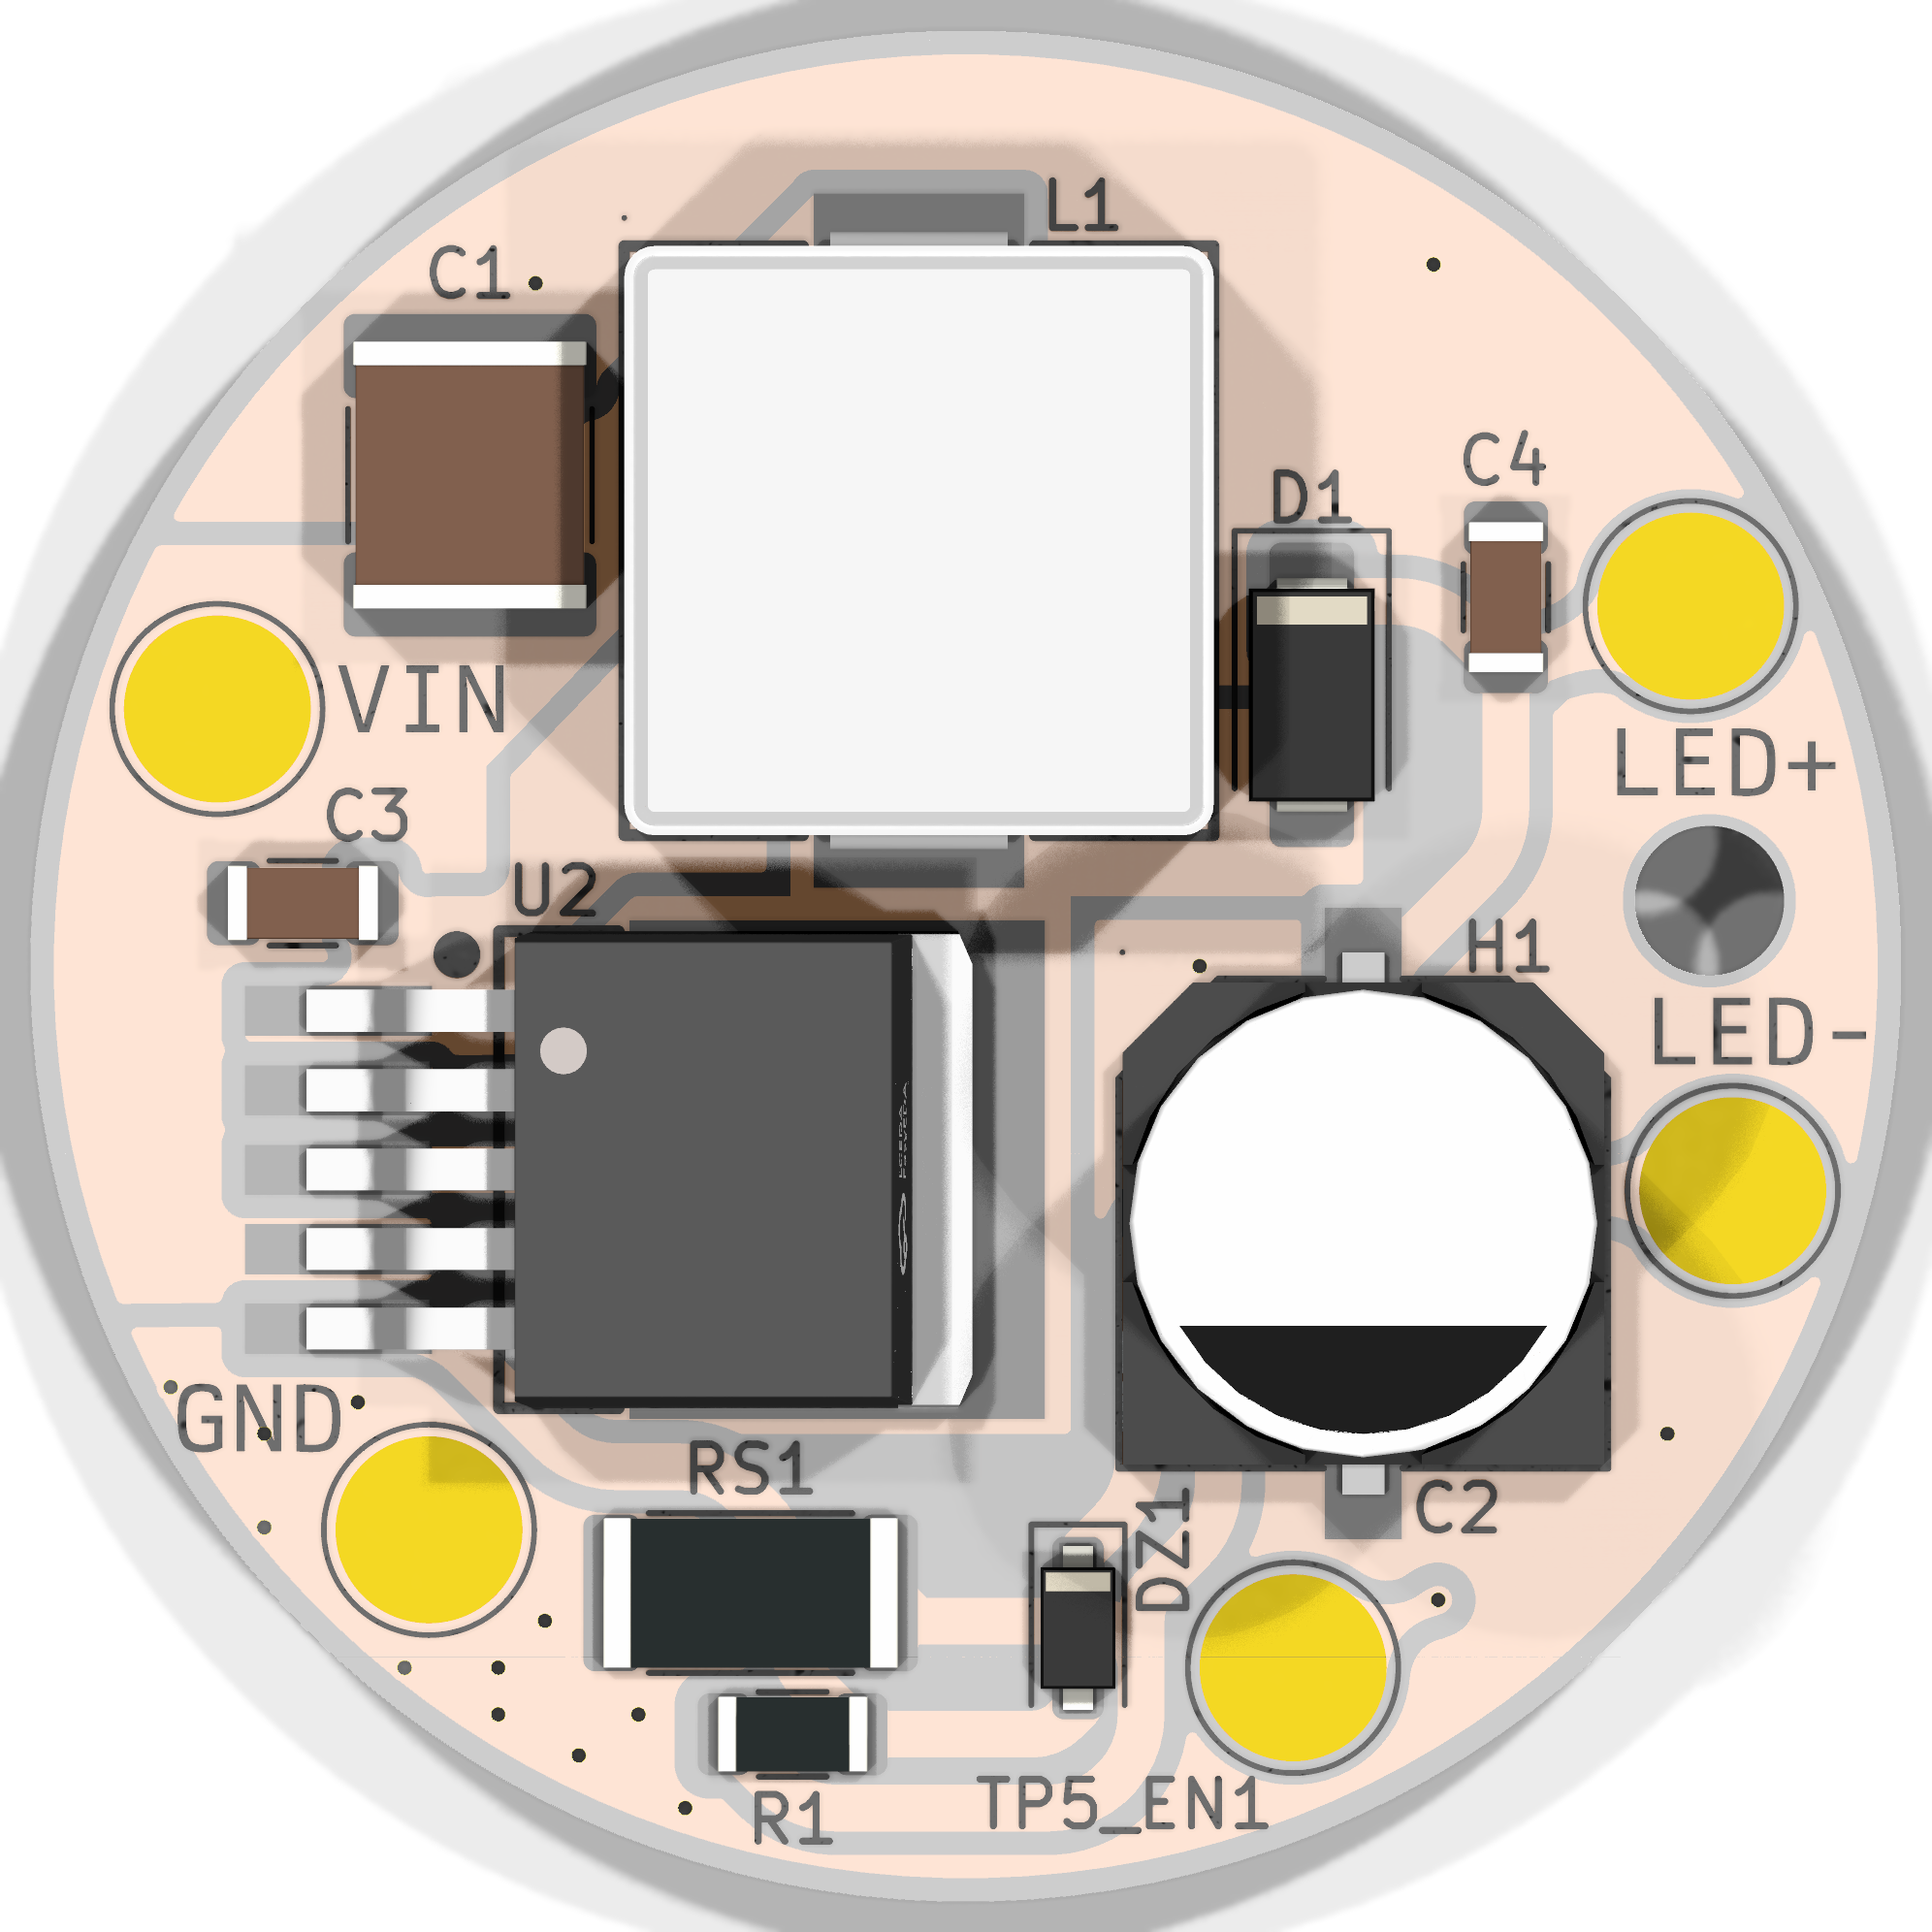
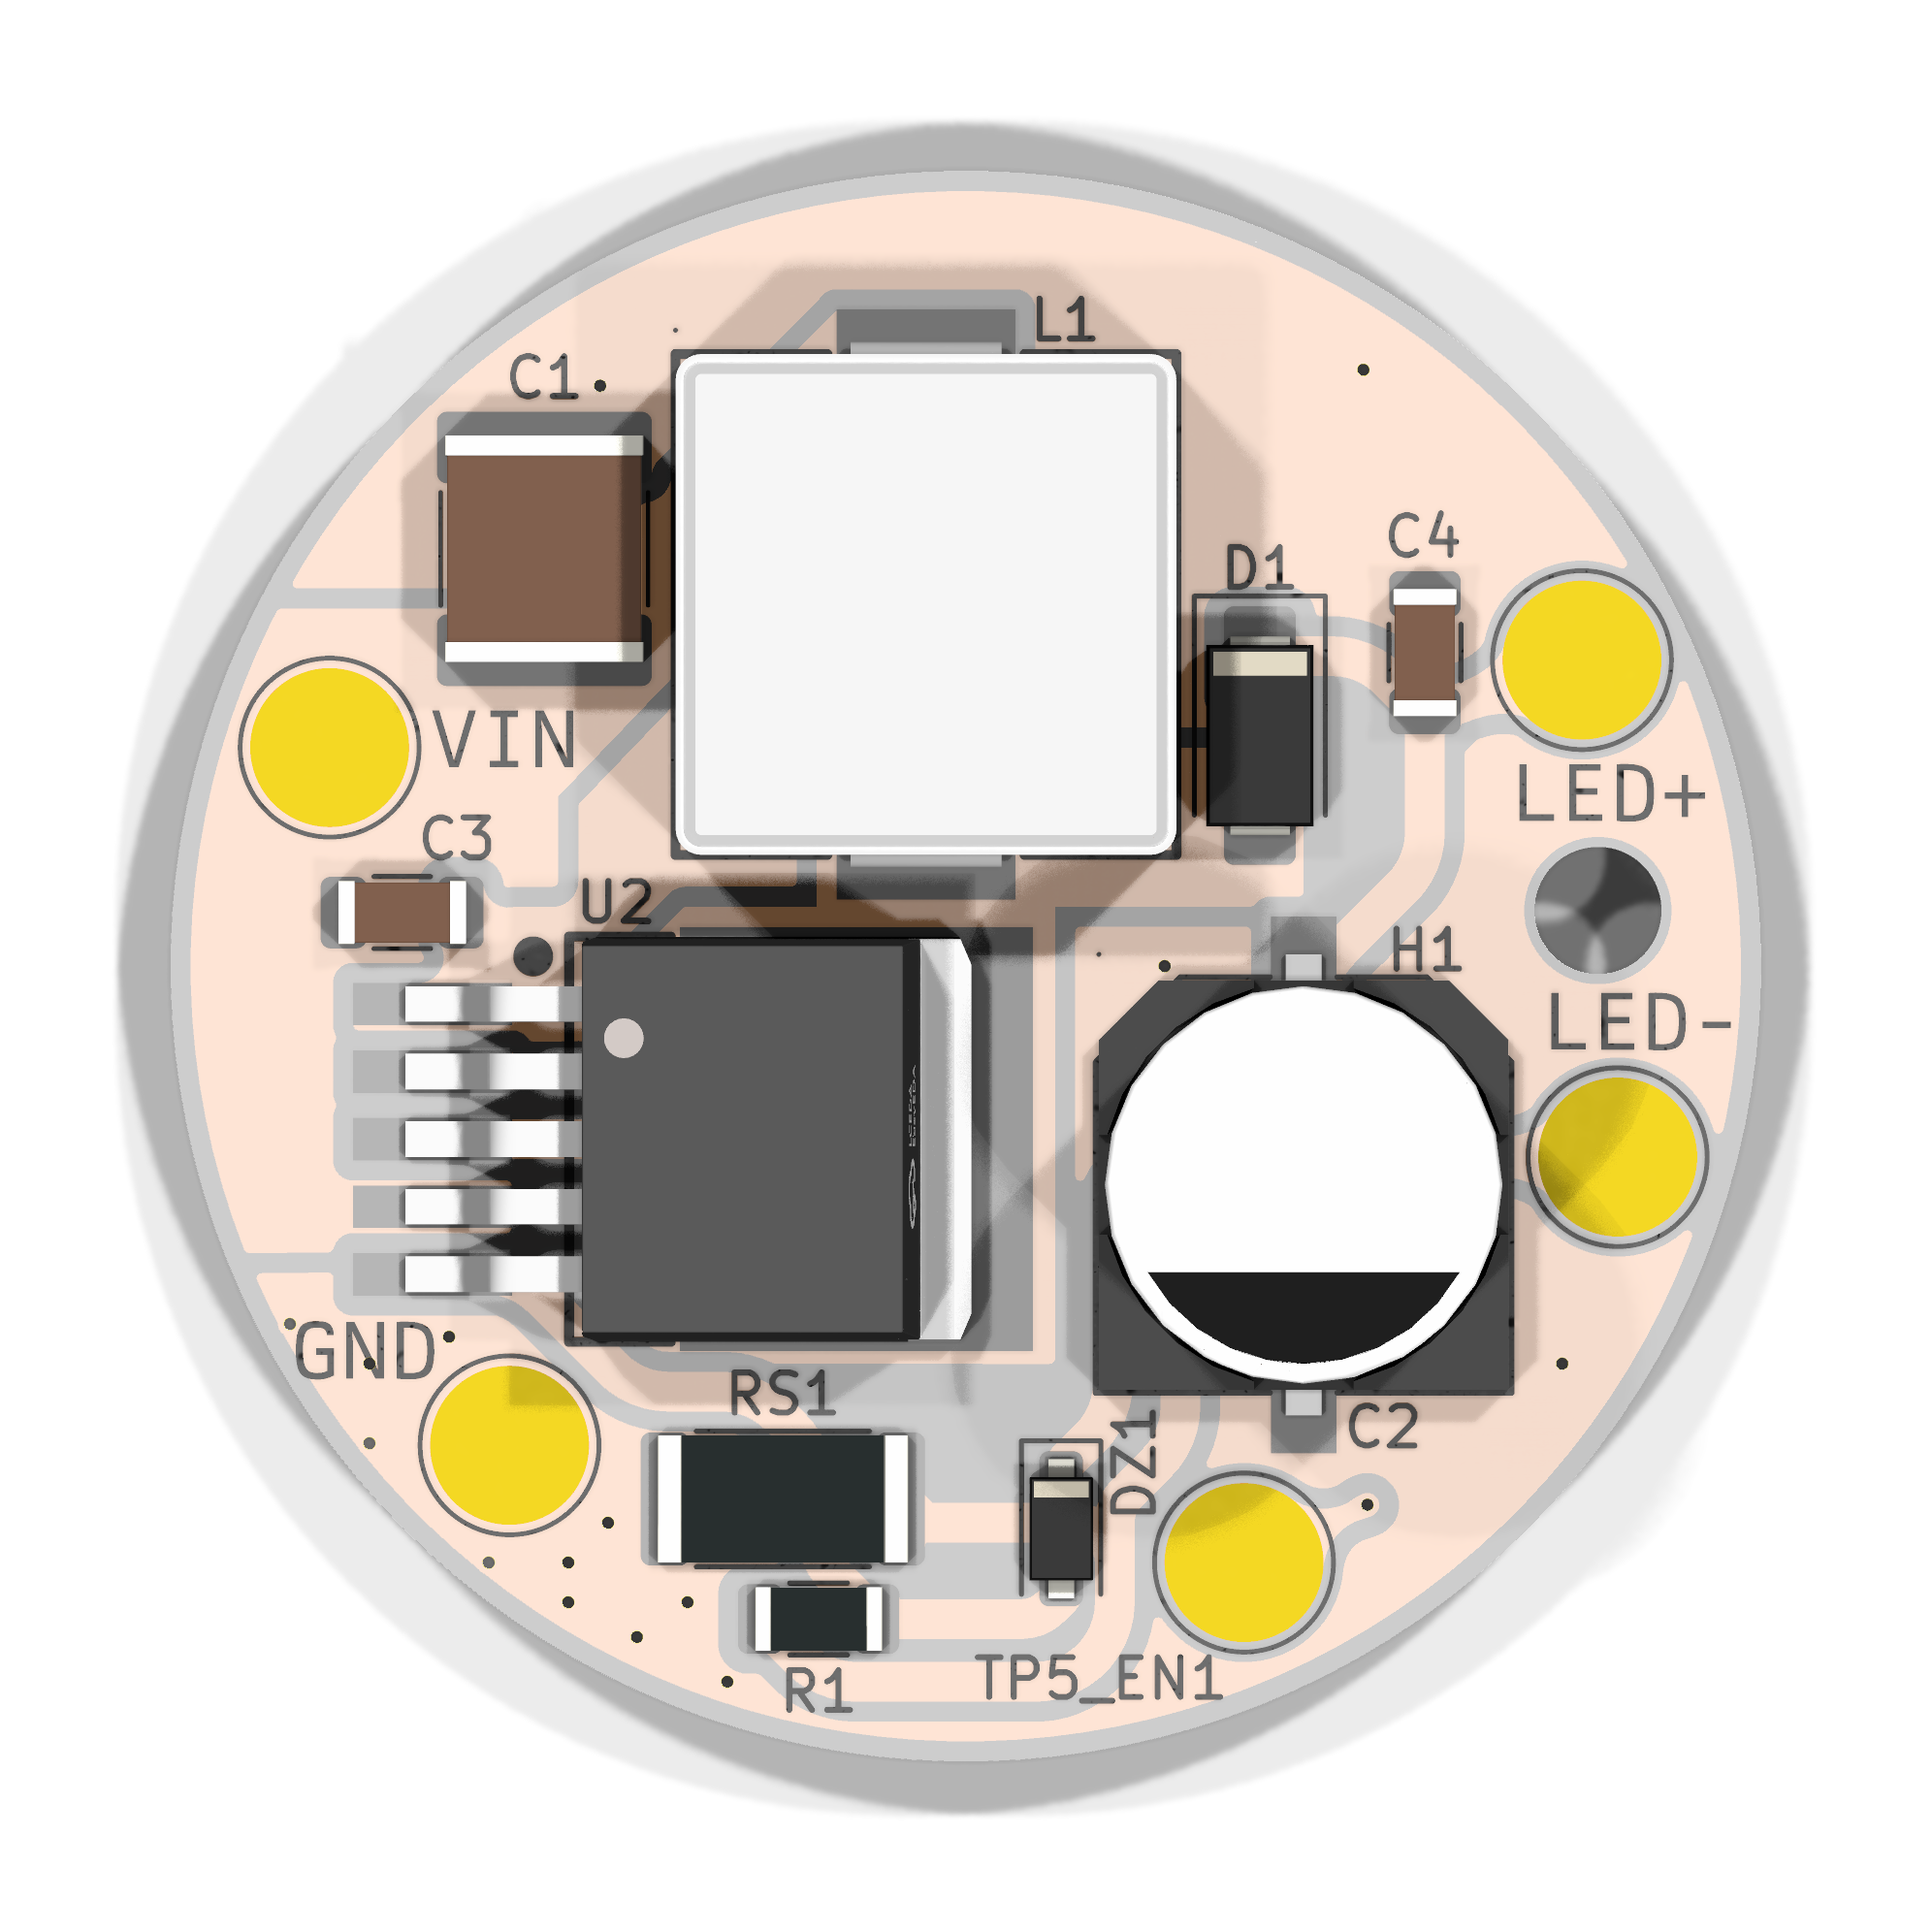
smaller

diff --git a/README.md b/README.md
@@ -35,7 +35,7 @@ As you can tell, this is, for the moment, mostly the bones of a flashlight (ie t
 
 [View on KiCanvas](https://kicanvas.org/?repo=https%3A%2F%2Fgithub.com%2FJBlitzar%2Fflsh%2Ftree%2Fmain%2FPCB%2Fflsh)
 
-![flsh led schematic](doc/flsh_led_schematic.svg)
+![](doc/flsh_led_schematic.svg)
 
 ## PCBs
 
@@ -46,8 +46,8 @@ As you can tell, this is, for the moment, mostly the bones of a flashlight (ie t
 
 <table>
   <tr>
-    <td width="50%"><img src="doc/flsh_boost_pcb.svg" width="100%" alt="flsh boost PCB"></td>
-    <td width="50%"><img src="doc/flsh_boost_3d_top.png" width="100%" alt="flsh boost 3D render"></td>
+    <td width="50%"><img src="doc/flsh_boost_pcb.svg" width="100%"></td>
+    <td width="50%"><img src="doc/flsh_boost_3d_top.png" width="100%"></td>
   </tr>
 </table>
 
@@ -58,8 +58,8 @@ As you can tell, this is, for the moment, mostly the bones of a flashlight (ie t
 
 <table>
   <tr>
-    <td width="50%"><img src="doc/flsh_led_pcb.svg" width="100%" alt="flsh led PCB"></td>
-    <td width="50%"><img src="doc/flsh_led_3d_top.png" width="100%" alt="flsh led 3D render"></td>
+    <td width="50%"><img src="doc/flsh_led_pcb.svg" width="100%"></td>
+    <td width="50%"><img src="doc/flsh_led_3d_top.png" width="100%"></td>
   </tr>
 </table>
 
